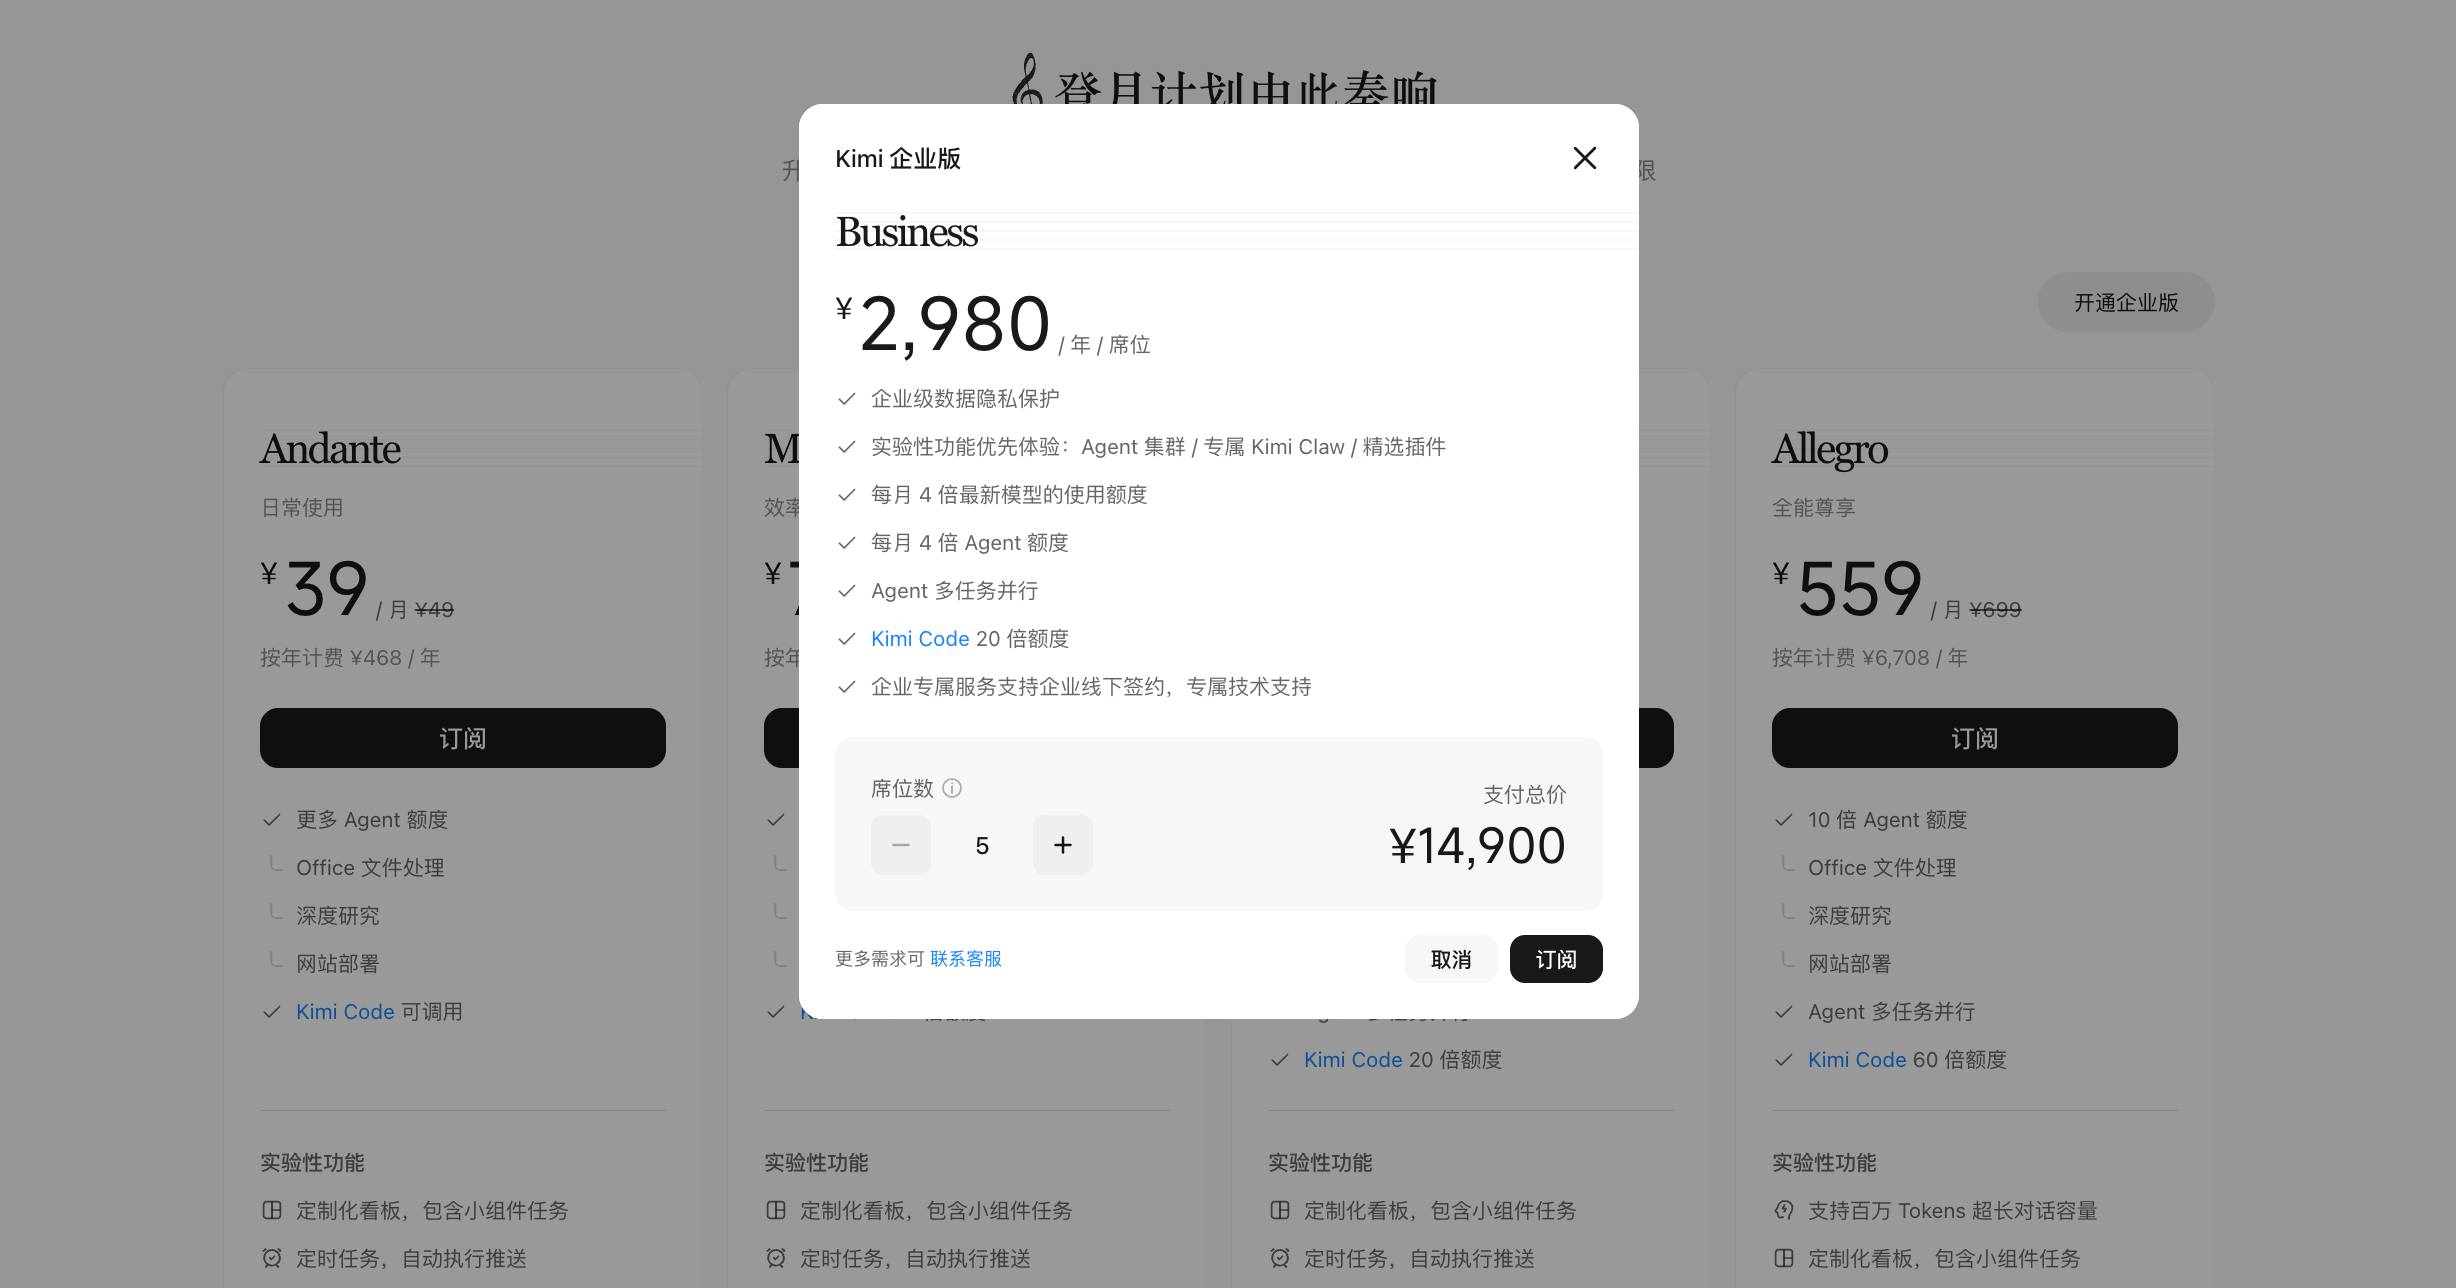
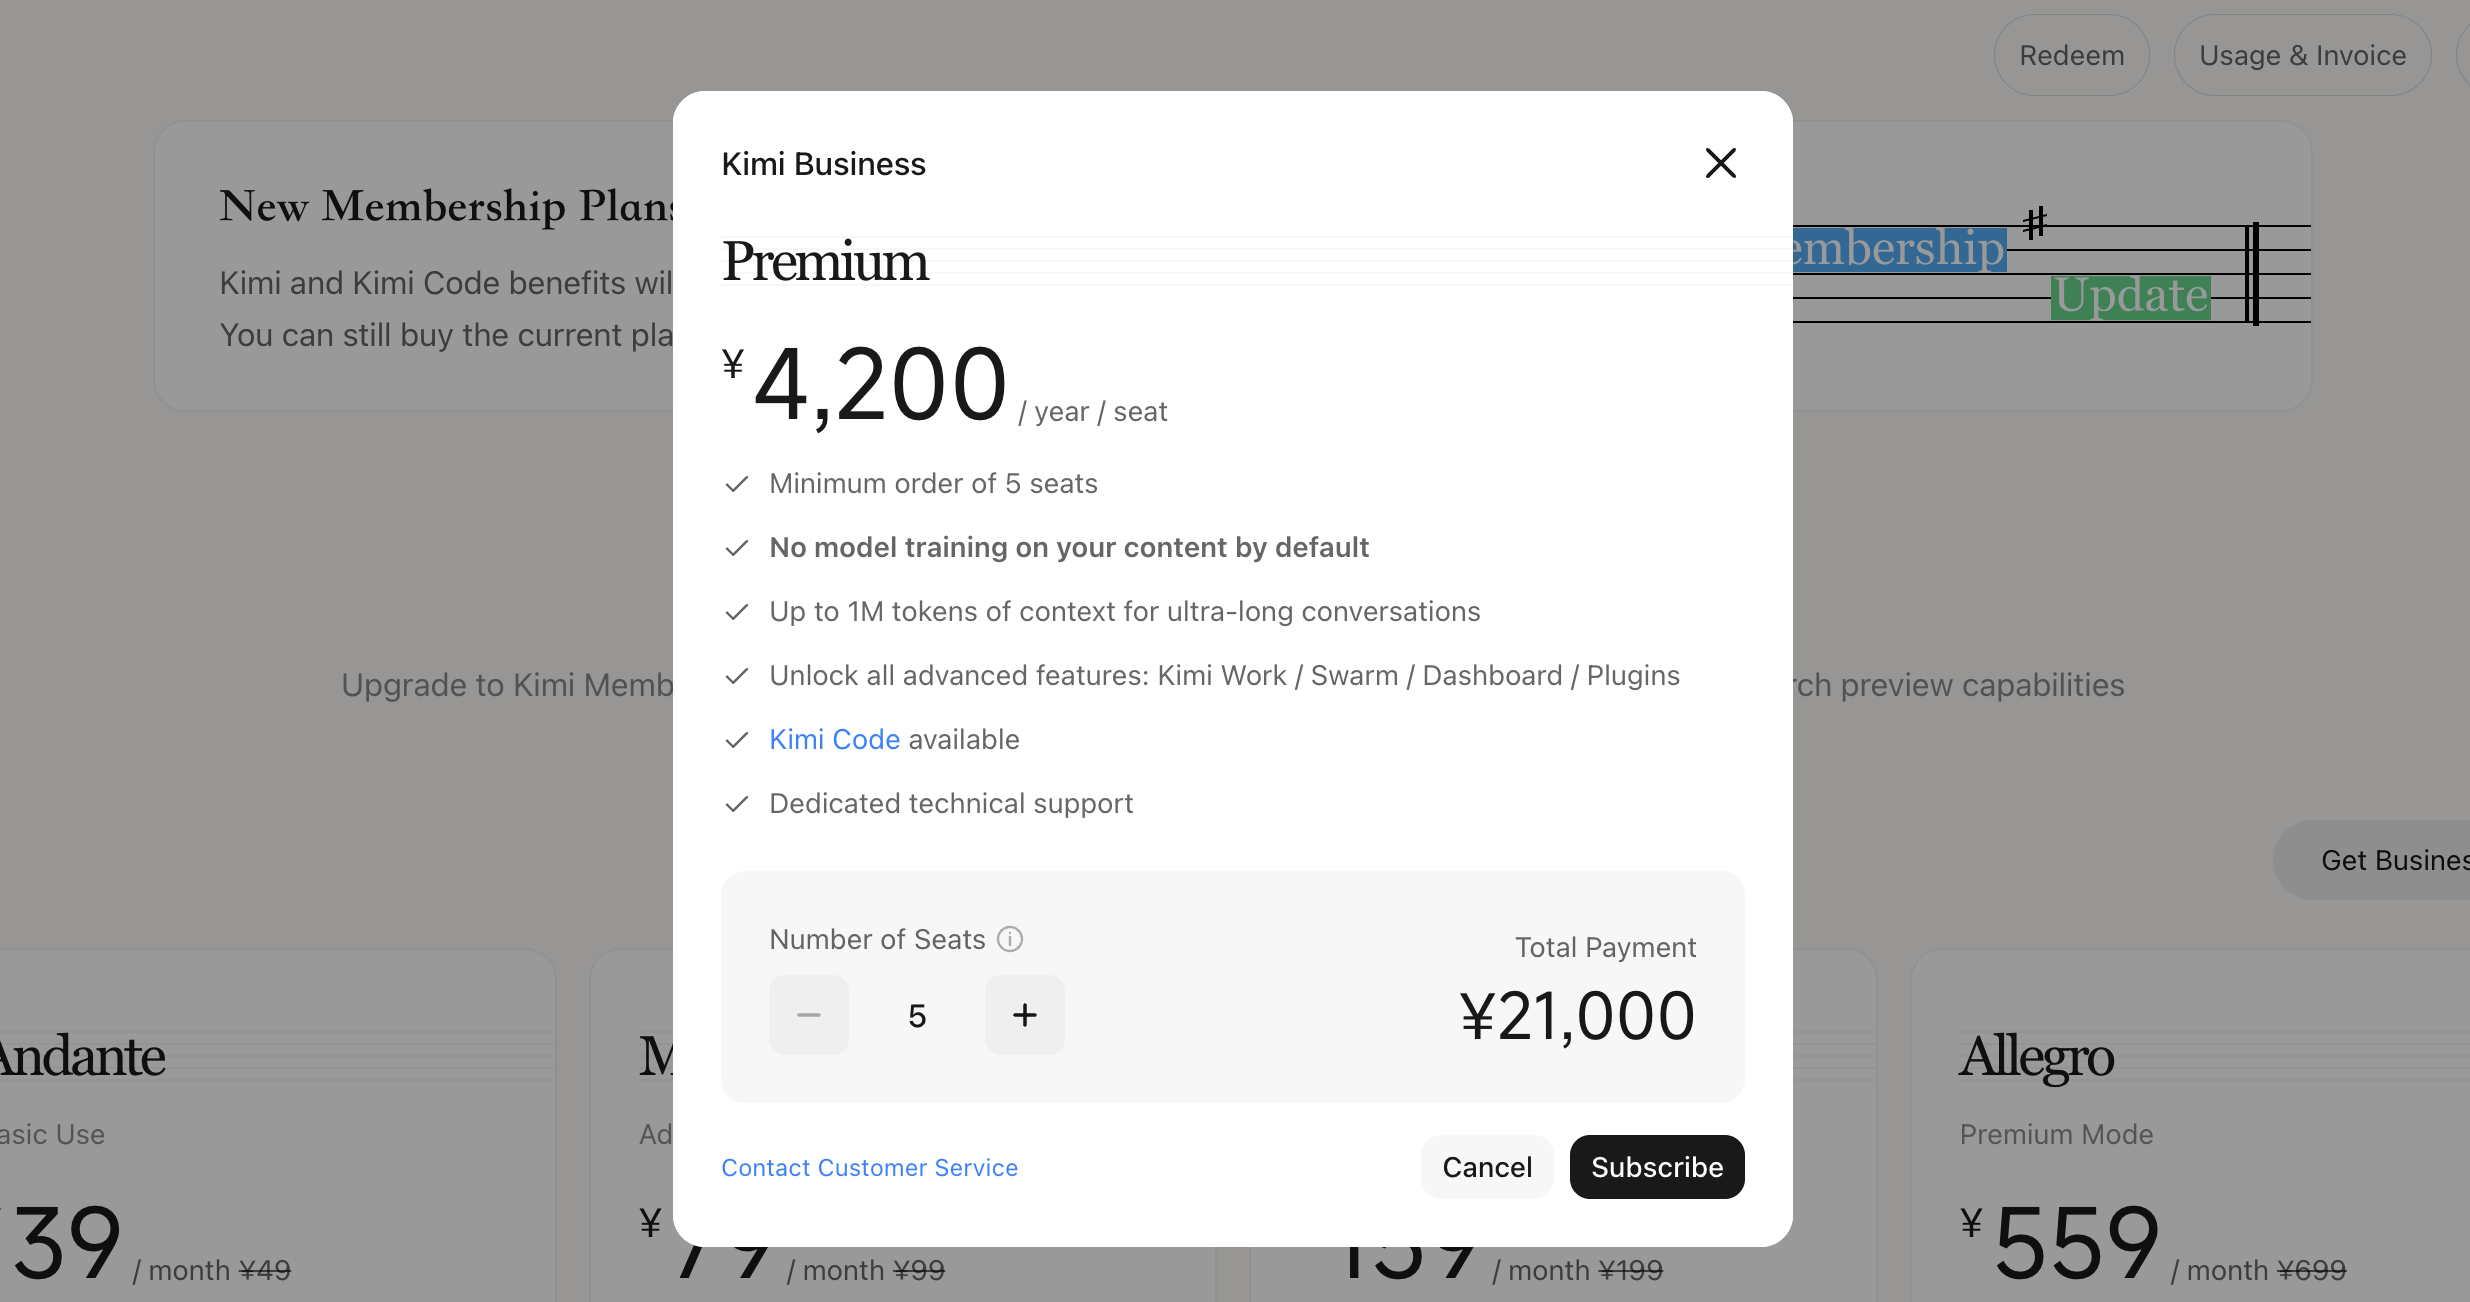
docs(kimi-business): update pricing to ¥4,200/seat/year and refresh purchase dialog screenshots

diff --git a/en-CN/kimi-business/kimi-business.md b/en-CN/kimi-business/kimi-business.md
@@ -37,8 +37,8 @@ Kimi Business is available as an annual subscription, starting from 5 seats. It 
 
 | Item | Details |
 |------|------|
-| Price | ¥2,980/seat/year (about ¥248/seat/month) |
-| Minimum purchase | Starts from 5 seats, billed annually from ¥14,900 |
+| Price | ¥4,200/seat/year (about ¥350/seat/month) |
+| Minimum purchase | Starts from 5 seats, billed annually from ¥21,000 |
 | Billing method | Annual subscription; additional seats can be purchased during the subscription period |
 
 When you add seats during a subscription period, the price is prorated based on the remaining days from the purchase date to the subscription expiry date. The unified expiry date remains unchanged.
